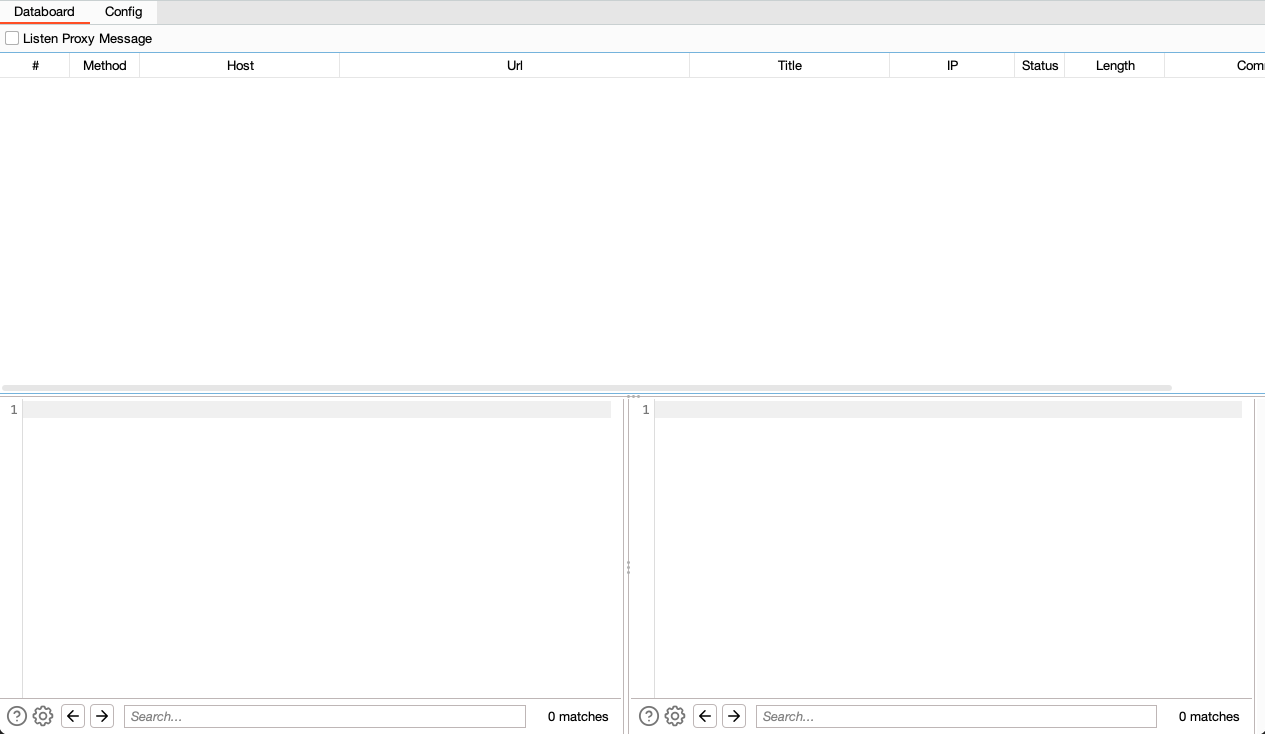
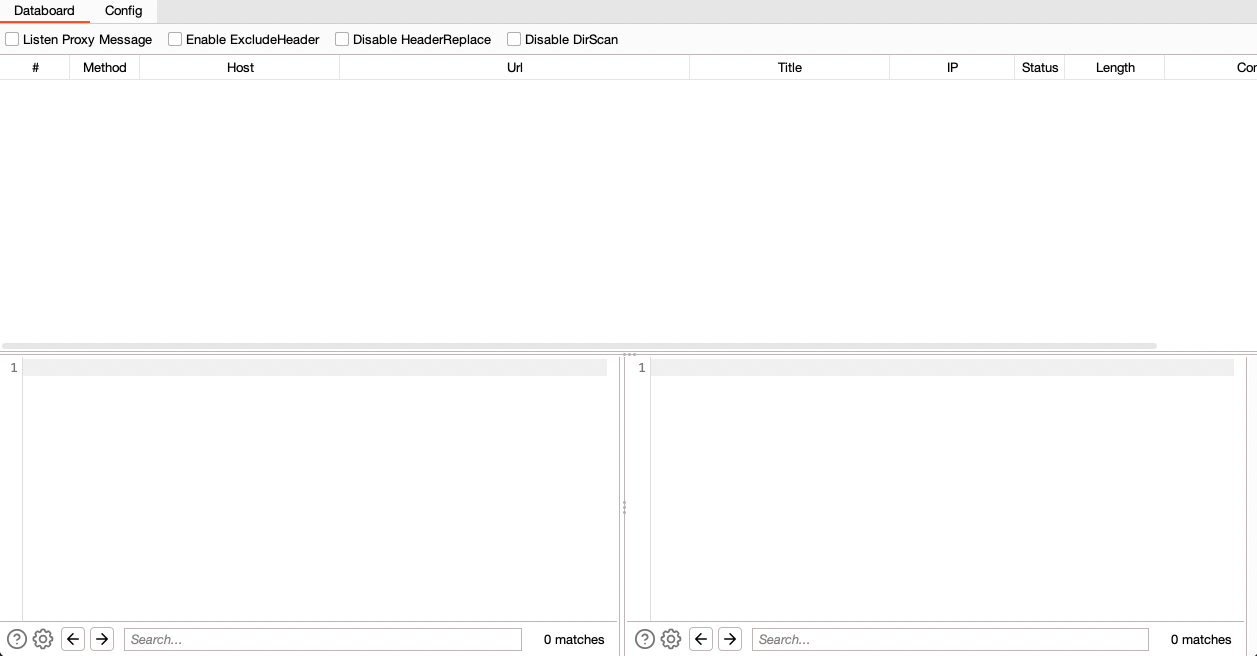
更新0.5.0版本说明文档

diff --git a/README.md b/README.md
@@ -4,7 +4,8 @@ OneScan是一个递归目录扫描的BurpSuite插件。
 
 ## 插件介绍
 
-OneScan插件的思路由One哥提供，我负责将One哥的思路进行编码变现。插件起初是为了发现站点的 `Swagger-API` 文档页面，例如有些站点将 `Swagger-API` 文档存放在当前接口同路径下（或者更深层次目录）。OneScan插件的出现可以快速发现这类页面和接口，只需要配置对应的字典即可。
+OneScan插件的思路由One哥提供，我负责将One哥的思路进行编码变现。插件起初是为了发现站点的 `Swagger-API` 文档页面，例如有些站点将 `Swagger-API`
+文档存放在当前接口同路径下（或者更深层次目录）。OneScan插件的出现可以快速发现这类页面和接口，只需要配置对应的字典即可。
 
 ## 插件安装
 
@@ -40,7 +41,10 @@ C:\Users\<用户名>\.config\OneScan\
 
 ![](imgs/main_panel.png)
 
-主面板的 `Listen Proxy Message` 配置表示被动扫描，代理的请求包都会经过OneScan（建议配置完白名单再启用）
+- `Listen Proxy Message` 开关被动扫描，代理的请求包都会经过OneScan（建议配置完白名单再启用）
+- `Enable ExcludeHeader` 开关排除请求头，启用时，根据 `Request -> Exclude header` 里的配置，排除请求头中对应的值
+- `Disable HeaderReplace` 开关请求头替换，启用时，不使用 `Request -> Header` 中配置的请求头请求数据
+- `Disable DirScan` 开关递归扫描，启用时，不对目标进行递归扫描
 
 ### 主动扫描
 
@@ -49,6 +53,27 @@ C:\Users\<用户名>\.config\OneScan\
 ![](imgs/send_to_onescan.png)
 
 > 注意：白名单同样对主动扫描生效
+
+### 辅助面板
+
+提取请求和响应包中**JSON**格式的字段
+
+![](imgs/show_json_param.png)
+
+### 动态变量
+
+目前支持的动态变量如下：
+
+```text
+{{host}} - 原请求头中的Host
+{{domain}} - 原请求头中的Host（不包含端口号）
+{{domain.main}} - 主域名（如：`www.google.com` => `google.com`；注意：如果domain是IP地址，那么该值也是IP地址）
+{{domain.name}} - 主域名的名称（如：`www.google.com` => `google`；注意：如果domain是IP地址，那么该值也是IP地址）
+{{protocol}} - 原请求头中的协议（http、https）
+{{timestamp}} - Unix时间戳（单位：秒）
+{{random.ip}} - 随机IPv4值
+{{random.ua}} - 随机UserAgent值，随机源可配置
+```
 
 ### Payload
 
@@ -65,21 +90,12 @@ Request配置界面如下
 
 ![](imgs/config_request.png)
 
+- `QPS` QPS限制，限制每秒请求的数量，最大值 `9999`
+- `Include method` 配置请求方法白名单
+- `Exclude suffix` 排除指定后缀的数据包
 - `Header` 递归扫描过程的请求头配置，可配置变量
+- `Exclude header` 请求时排除请求头中对应的值
 - `UserAgent` 这里配置的是 `{{random.ua}}` 变量列表里的值
-
-目前包含的变量如下：
-
-```text
-{{host}} - 原请求头中的Host
-{{domain}} - 原请求头中的Host（不包含端口号）
-{{domain.main}} - 主域名（如：`www.google.com` => `google.com`；注意：如果domain是IP地址，那么该值也是IP地址）
-{{domain.name}} - 主域名的名称（如：`www.google.com` => `google`；注意：如果domain是IP地址，那么该值也是IP地址）
-{{protocol}} - 原请求头中的协议（http、https）
-{{timestamp}} - Unix时间戳（单位：秒）
-{{random.ip}} - 随机IPv4值
-{{random.ua}} - 随机UserAgent值，随机源可配置
-```
 
 ### Host
 
@@ -96,10 +112,8 @@ Other配置界面如下
 
 ![](imgs/config_other.png)
 
-- `QPS` QPS限制，限制每秒请求的数量，最大值 `9999`
 - `Web name collect` Web目录名收集（例如：`http://xxx.com/wapi/xxx.html` 会将该 url 中的 `wapi` 写入到指定的文件中）
 - `Json field collect` Json字段收集（收集json格式响应包中的所有key值，保存到指定目录）
-- `Exclude suffix` 排除指定后缀的数据包
 - `HaE` 配置与 [HaE](https://github.com/gh0stkey/HaE) 插件联动，实现主面板数据高亮
 
 ## 插件演示
